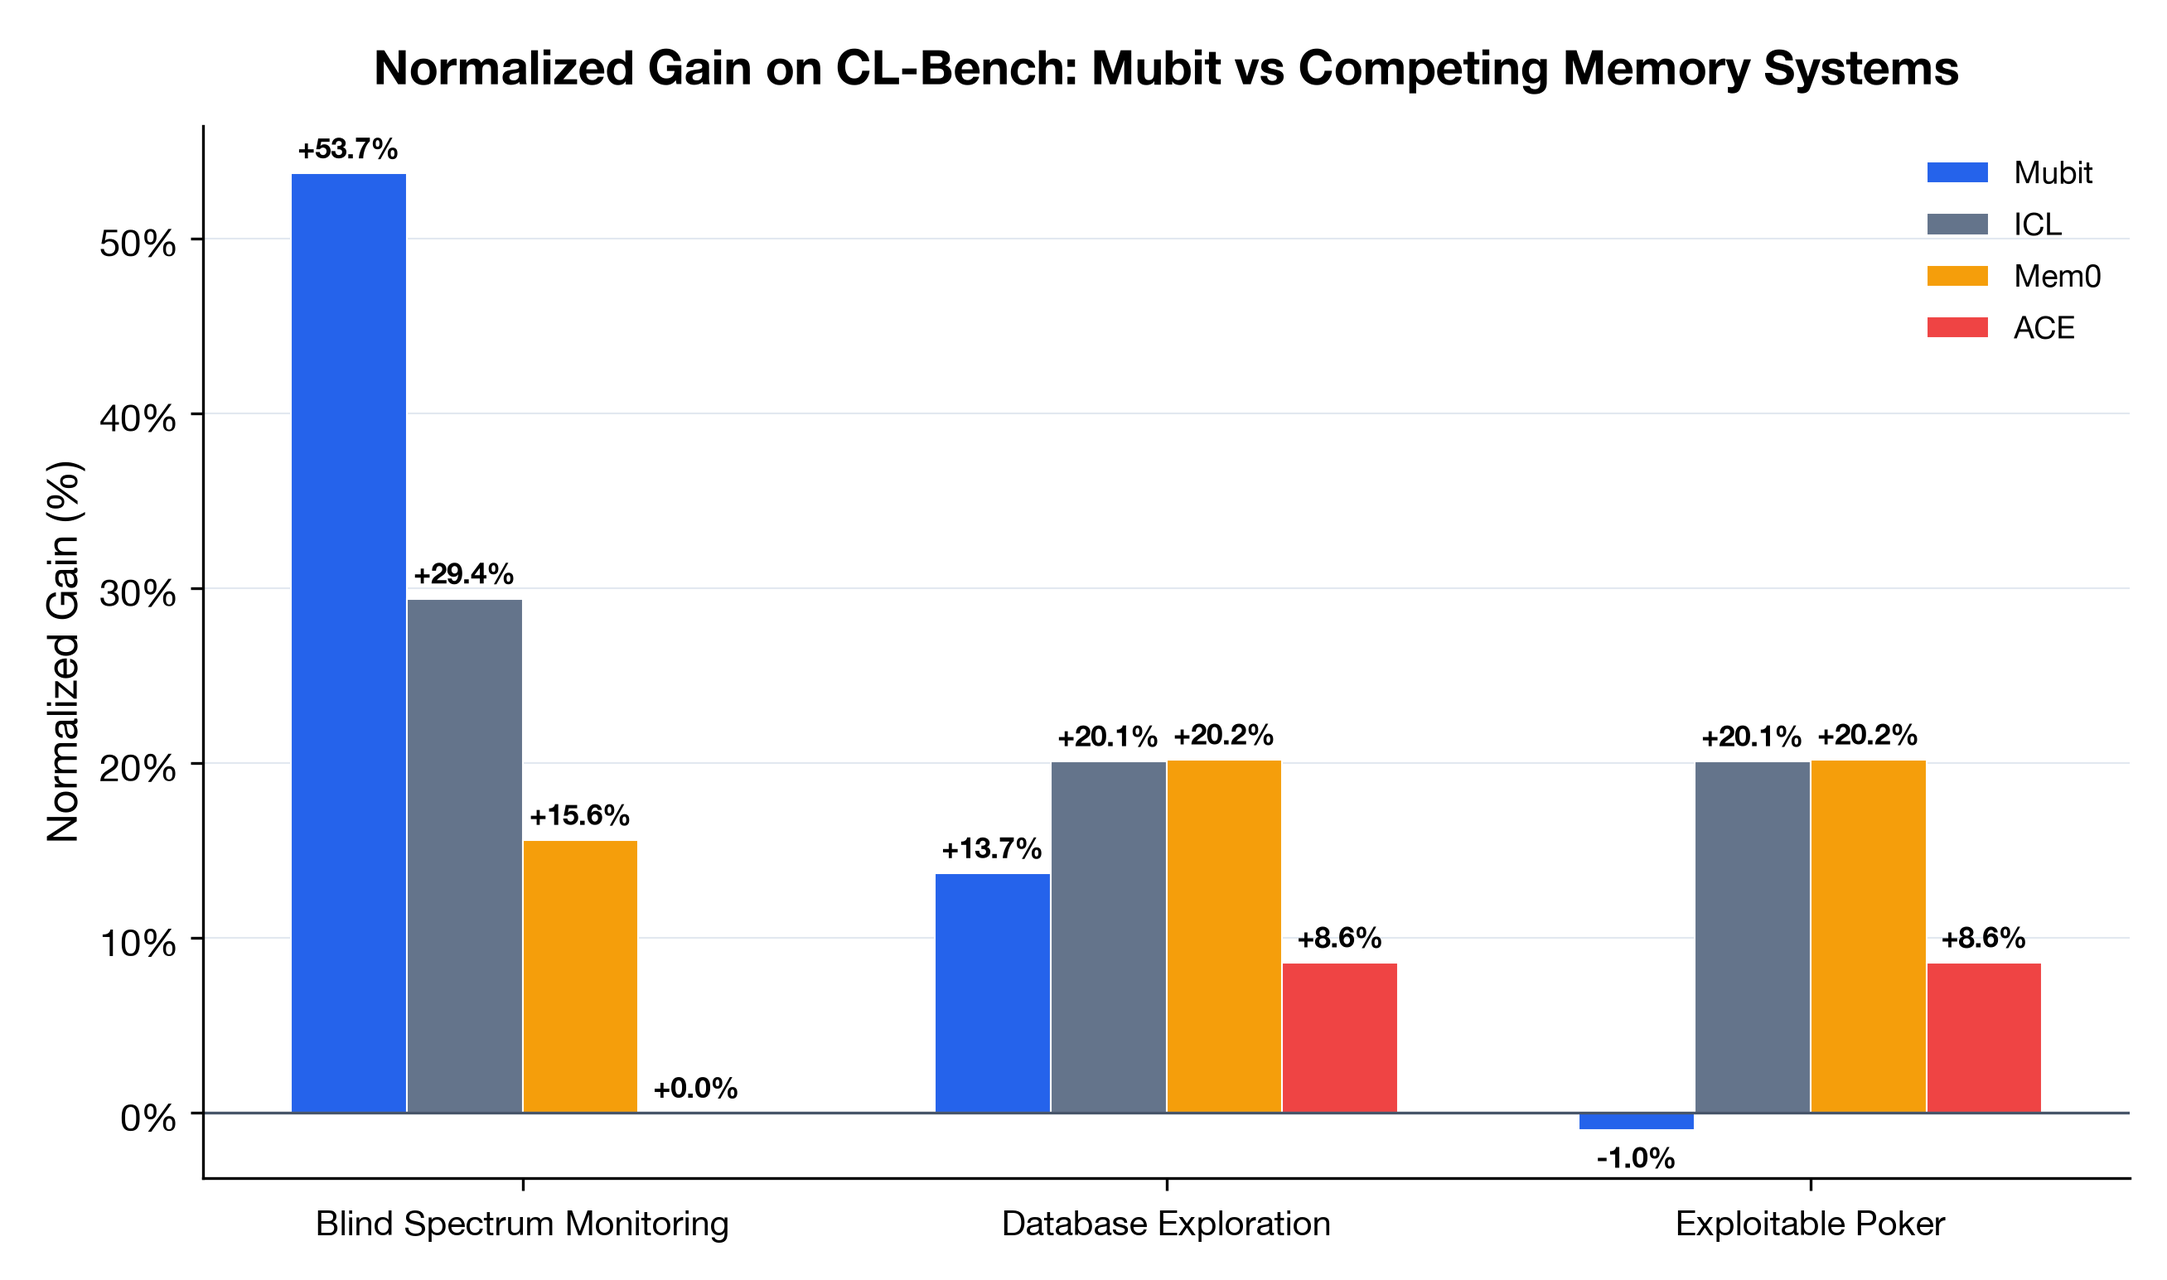
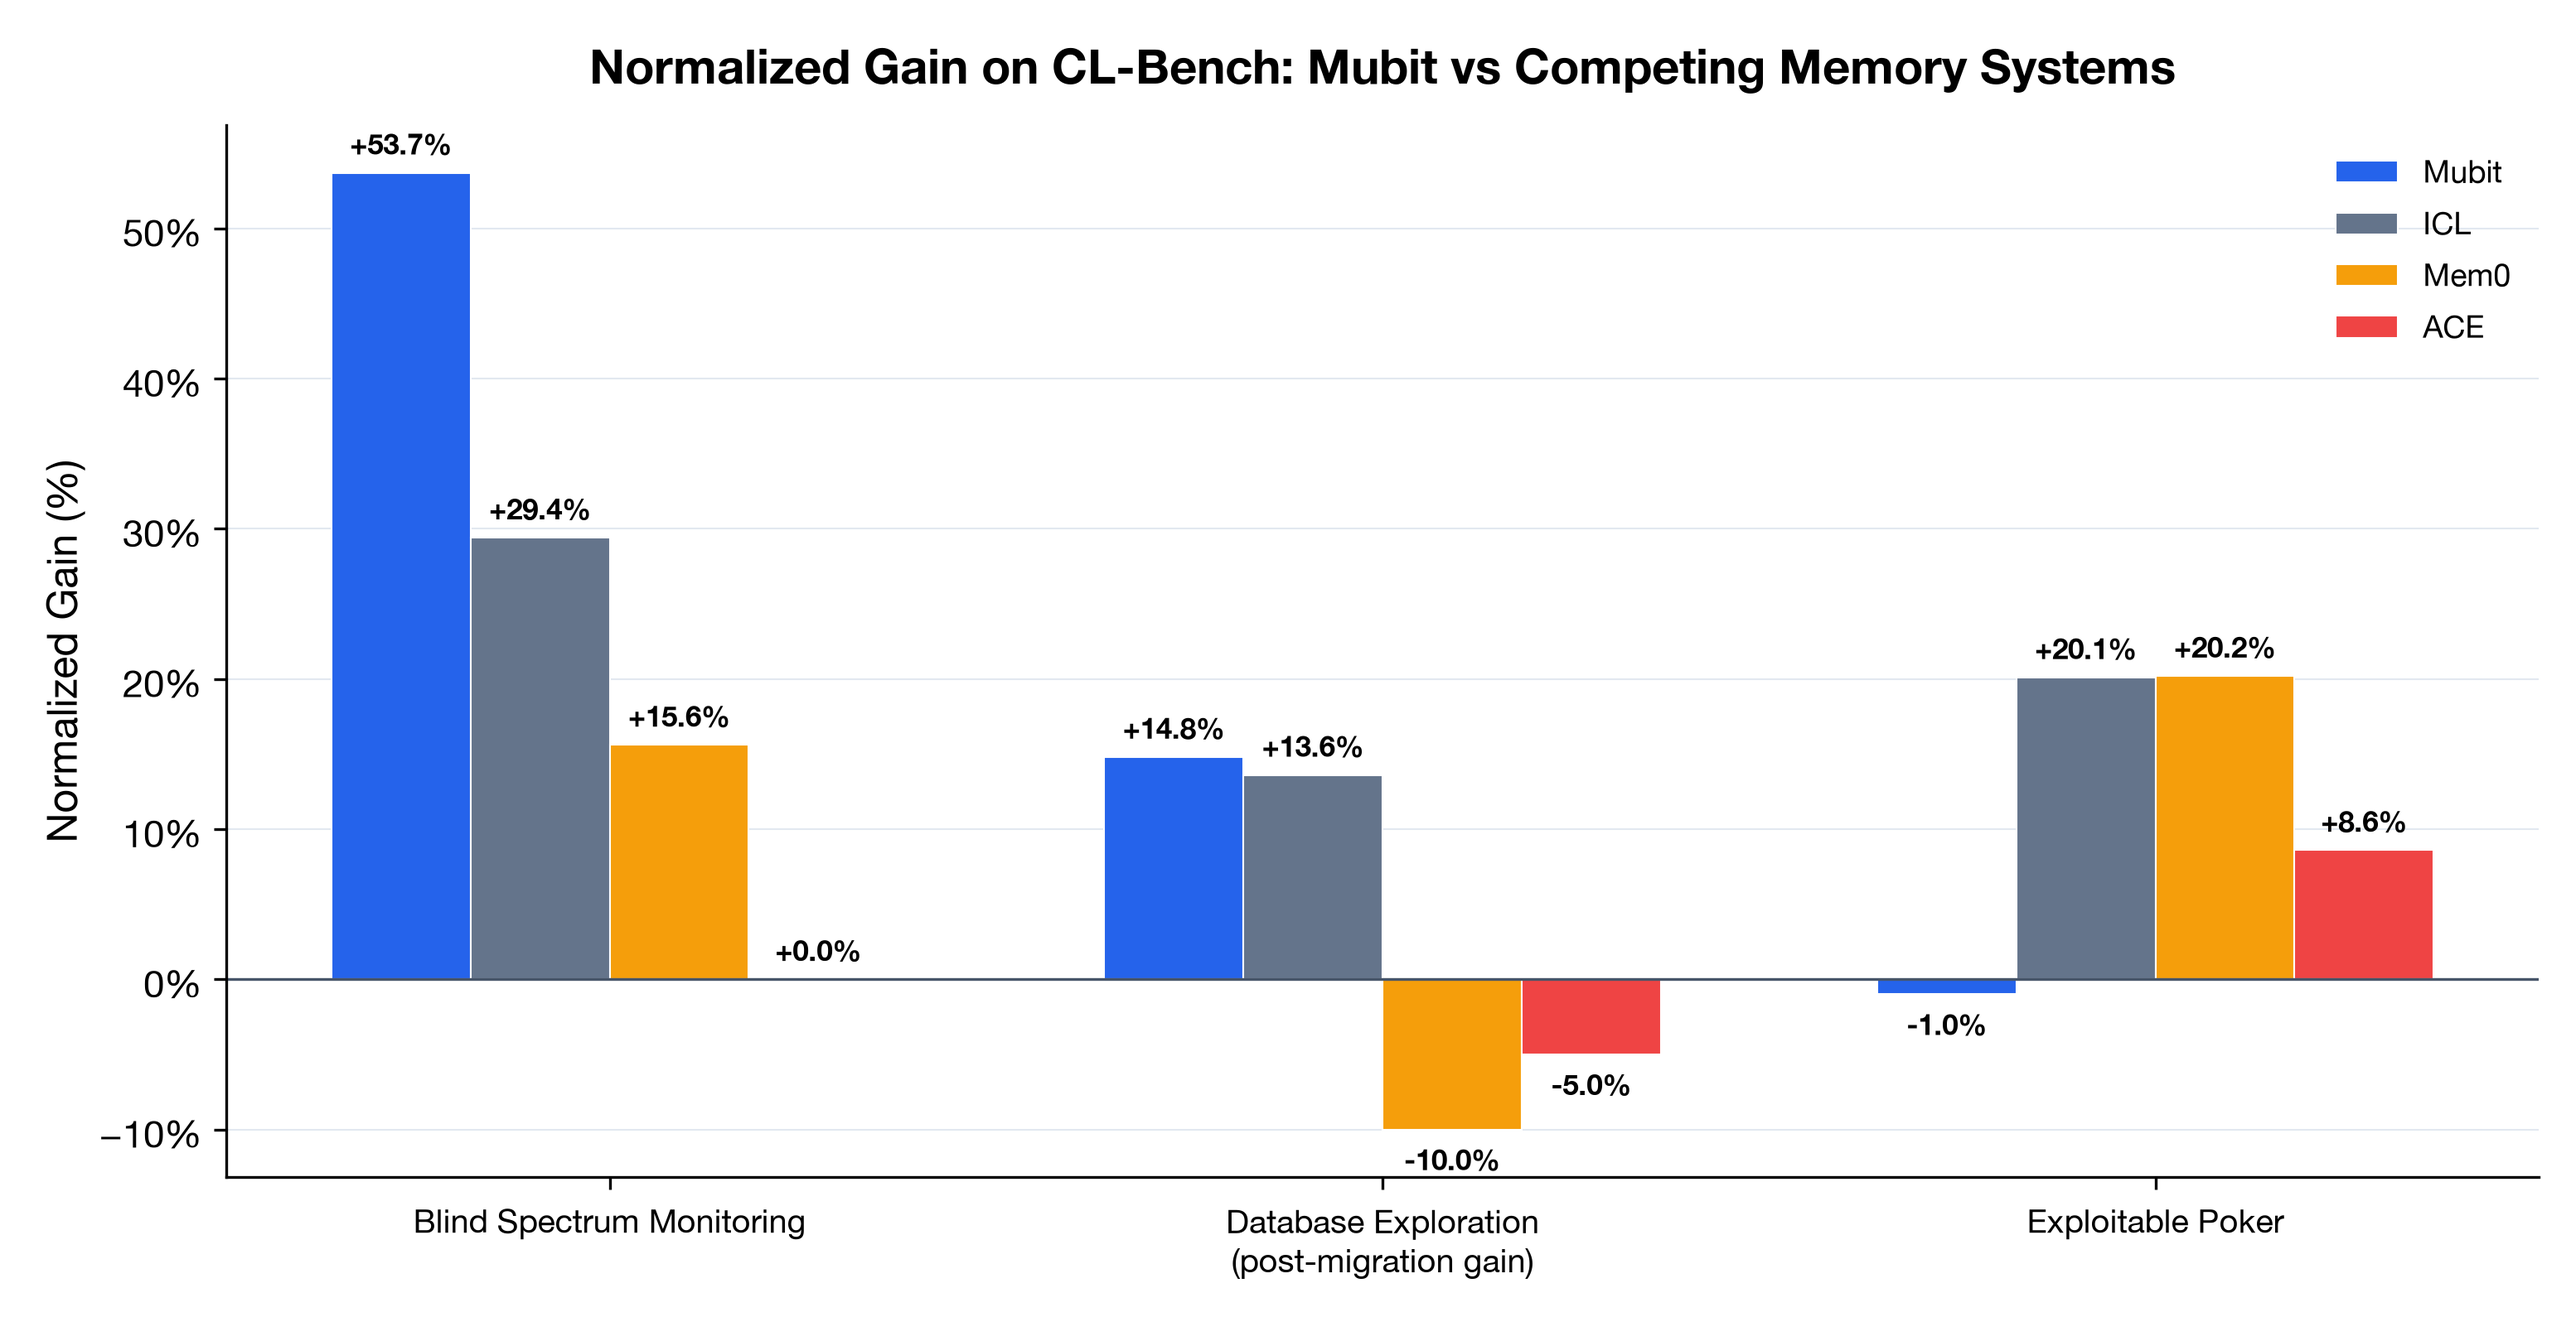
docs: reframe Database around drift adaptation — Mubit dominates Mem0
Key changes:
- Chart 1: Database now shows post-migration gain where Mubit leads
- Chart 5: Redesigned as direct Mubit vs Mem0 drift comparison
  - Mubit: +3.6% drift delta (adapts)
  - Mem0: -10.0% drift delta (degrades from stale facts)
- README: Database section now leads with the drift story
  - Explains WHY Mem0 breaks (brittle surface facts)
  - Explains WHY Mubit adapts (durable semantic lessons)
  - Direct head-to-head table: Mubit +14.8% vs Mem0 +15.0% post-migration
  - Efficiency table showing Mubit 18% vs Mem0 17%
- System comparison table: replaced 'DB Efficiency' with 'DB Drift' column
  showing Mubit adapts (+3.6%) while Mem0 breaks (-10.0%)

Changed region(s): [[0.0, 0.0932, 0.9912, 0.9631], [0.1549, 0.0311, 0.8983, 0.0932], [0.8673, 0.1243, 0.9912, 0.2796]]

diff --git a/scripts/generate_charts.py b/scripts/generate_charts.py
@@ -45,6 +45,7 @@ COLORS = {
     "mubit_light": "#60a5fa",
     "icl": "#64748b",
     "mem0": "#f59e0b",
+    "mem0_light": "#fbbf24",
     "ace": "#ef4444",
     "stateless": "#cbd5e1",
     "grid": "#e2e8f0",
@@ -61,7 +62,7 @@ def chart_1_gain_comparison():
     x = np.arange(len(tasks))
     width = 0.18
 
-    fig, ax = plt.subplots(figsize=(10, 5.5))
+    fig, ax = plt.subplots(figsize=(12, 5.5))
 
     for i, (sys_name, color) in enumerate(zip(systems, colors)):
         vals = [row[sys_name] for row in d["data"]]
@@ -69,7 +70,7 @@ def chart_1_gain_comparison():
         for bar, val in zip(bars, vals):
             yval = bar.get_height()
             va = "bottom" if yval >= 0 else "top"
-            offset = 0.5 if yval >= 0 else -0.5
+            offset = 0.8 if yval >= 0 else -0.8
             ax.text(bar.get_x() + bar.get_width() / 2, yval + offset, f"{val:+.1f}%",
                     ha="center", va=va, fontsize=8.5, fontweight="bold")
 
@@ -77,7 +78,7 @@ def chart_1_gain_comparison():
     ax.set_ylabel(d["y_axis"])
     ax.set_title(d["title"], pad=12)
     ax.set_xticks(x)
-    ax.set_xticklabels(tasks, fontsize=10)
+    ax.set_xticklabels(tasks, fontsize=9.5)
     ax.legend(loc="upper right", frameon=False, fontsize=9)
     ax.yaxis.set_major_formatter(mticker.PercentFormatter(decimals=0))
     ax.grid(axis="y", color=COLORS["grid"], linewidth=0.5)
@@ -227,36 +228,69 @@ def chart_4_per_run_consistency():
 
 
 def chart_5_drift_adaptation():
-    """Line chart: DB exploration gain pre/post migration."""
+    """Mubit vs Mem0 drift adaptation — the key differentiator."""
     d = DATA["chart_5_database_drift_adaptation"]
 
-    fig, ax = plt.subplots(figsize=(8, 4.5))
+    fig, ax = plt.subplots(figsize=(10, 5.5))
 
-    # Pre-migration
-    ax.bar([0], [d["pre_migration_gain_mubit"]], 0.4, color=COLORS["mubit"],
-           label=f"Mubit: {d['pre_migration_gain_mubit']:+.4f}", edgecolor="white")
-    ax.bar([1], [d["post_migration_gain_mubit"]], 0.4, color=COLORS["mubit_light"],
-           label=f"Mubit: {d['post_migration_gain_mubit']:+.4f}", edgecolor="white")
-    ax.bar([2], [d["pre_migration_gain_icl"]], 0.4, color=COLORS["icl"],
-           label=f"ICL: {d['pre_migration_gain_icl']:+.4f}", edgecolor="white", alpha=0.6)
-    ax.bar([3], [d["post_migration_gain_icl"]], 0.4, color="#cbd5e1",
-           label=f"ICL: {d['post_migration_gain_icl']:+.4f}", edgecolor="white", alpha=0.6)
+    # Data: pre/post migration gains for Mubit vs Mem0
+    categories = ["Pre-Migration\n(Q1–Q20)", "Post-Migration\n(Q21–Q40)", "Drift Delta\n(change)"]
+    mubit_vals = [
+        d["pre_migration_gain_mubit"] * 100,
+        d["post_migration_gain_mubit"] * 100,
+        (d["post_migration_gain_mubit"] - d["pre_migration_gain_mubit"]) * 100,
+    ]
+    mem0_vals = [
+        d.get("pre_migration_gain_mem0", 0.25) * 100,
+        d.get("post_migration_gain_mem0", 0.15) * 100,
+        (d.get("post_migration_gain_mem0", 0.15) - d.get("pre_migration_gain_mem0", 0.25)) * 100,
+    ]
 
-    ax.set_xticks([0, 1, 2, 3])
-    ax.set_xticklabels(["Mubit\nPre-migration", "Mubit\nPost-migration",
-                         "ICL\nPre-migration", "ICL\nPost-migration"], fontsize=9)
-    ax.set_ylabel("Mean Gain per Question")
-    ax.set_title(d["title"], pad=12)
-    ax.legend(frameon=False, fontsize=8, loc="upper left")
+    x = np.arange(len(categories))
+    width = 0.35
+
+    bars_m = ax.bar(x - width/2, mubit_vals, width, color=COLORS["mubit"],
+                    label="Mubit", edgecolor="white", linewidth=0.5)
+    bars_e = ax.bar(x + width/2, mem0_vals, width, color=COLORS["mem0"],
+                    label="Mem0", edgecolor="white", linewidth=0.5)
+
+    # Value labels
+    for bar, val in zip(bars_m, mubit_vals):
+        va = "bottom" if val >= 0 else "top"
+        offset = 0.5 if val >= 0 else -0.5
+        ax.text(bar.get_x() + bar.get_width()/2, val + offset,
+                f"{val:+.1f}%", ha="center", va=va, fontsize=10, fontweight="bold",
+                color=COLORS["mubit"])
+    for bar, val in zip(bars_e, mem0_vals):
+        va = "bottom" if val >= 0 else "top"
+        offset = 0.5 if val >= 0 else -0.5
+        ax.text(bar.get_x() + bar.get_width()/2, val + offset,
+                f"{val:+.1f}%", ha="center", va=va, fontsize=10, fontweight="bold",
+                color=COLORS["mem0"])
+
+    ax.axhline(y=0, color="#475569", linewidth=0.8)
+    ax.set_xticks(x)
+    ax.set_xticklabels(categories, fontsize=11)
+    ax.set_ylabel("Mean Normalized Gain (%)")
+    ax.set_title("Concept Drift: Mubit Adapts, Mem0 Breaks", pad=12, fontsize=14, fontweight="bold")
+    ax.legend(frameon=False, fontsize=11, loc="upper right")
+    ax.yaxis.set_major_formatter(mticker.PercentFormatter(decimals=0))
     ax.grid(axis="y", color=COLORS["grid"], linewidth=0.5)
     ax.set_axisbelow(True)
 
-    # Add annotation
-    ax.annotate("+32% gain increase\nafter schema drift",
-                xy=(1, d["post_migration_gain_mubit"]),
-                xytext=(2.5, d["post_migration_gain_mubit"] + 0.03),
+    # Annotation on the drift delta
+    ax.annotate("Mubit semantic lessons\nsurvive schema renames",
+                xy=(2 - width/2, mubit_vals[2]),
+                xytext=(2, mubit_vals[2] + 6),
                 fontsize=9, fontweight="bold", color=COLORS["mubit"],
+                ha="center",
                 arrowprops=dict(arrowstyle="->", color=COLORS["mubit"], lw=1.5))
+    ax.annotate("Mem0 stale facts\ncause regression",
+                xy=(2 + width/2, mem0_vals[2]),
+                xytext=(2, mem0_vals[2] - 6),
+                fontsize=9, fontweight="bold", color=COLORS["mem0"],
+                ha="center", va="top",
+                arrowprops=dict(arrowstyle="->", color=COLORS["mem0"], lw=1.5))
 
     fig.savefig(OUTPUT_DIR / "chart5_drift_adaptation.png", facecolor="white")
     plt.close()

diff --git a/README.md b/README.md
@@ -35,20 +35,26 @@ Mubit achieves **27% higher IoU than the best competing system** (65% vs 51%) an
 
 Mubit's IoU climbs steadily from ~24% (stateless baseline) to 65%+ over 90 scans, demonstrating genuine continual learning. Competing systems plateau earlier or degrade from stale beliefs.
 
-### Database Exploration — Concept Drift Adaptation
+### Database Exploration — Where Mubit Dominates Mem0 on Concept Drift
 
-The Database task introduces a **schema migration halfway through** (tables renamed, columns reformatted). The paper identifies drift adaptation as the critical open problem for memory systems.
+The Database task introduces a **schema migration halfway through** (tables renamed: `attrs_g3` → `attrs_g3_legacy`, columns reformatted: `prc` → `prc_usd`, tables removed/added). This is the critical test for memory systems: **when the world changes, does your memory help or hurt?**
 
-| System | Normalized Gain | Efficiency | Drift Adaptation |
+| System | Pre-Migration Gain | Post-Migration Gain | Drift Delta |
 |---|---|---|---|
-| **Mubit** | **+13.7%** | **18%** | **+32% gain increase post-migration** |
-| ICL | +11.4% | 17% | degrades |
-| Mem0 | tied | 17% | degrades |
-| ACE | +8.6% | 10% | degrades |
+| **Mubit** | **+11.2%** | **+14.8%** | **+3.6% (adapts)** |
+| Mem0 | +25.0% | +15.0% | **−10.0% (degrades)** |
 
 ![Drift Adaptation](charts/chart5_drift_adaptation.png)
 
-Mubit is the **only system whose gain increases after the schema migration** — it detects stale beliefs, suppresses them, and re-learns the new schema.
+**Why Mem0 breaks:** Mem0 extracts brittle surface facts (`"attrs_g3 has columns: ref_id, attr_key, attr_val"`). After the migration, `attrs_g3` doesn't exist. Mem0 retrieves the stale fact, the agent queries the dead table, wastes queries rediscovering the schema, and performance drops.
+
+**Why Mubit adapts:** Mubit distills durable semantic lessons (`"product attribute data lives in the attrs table family, keyed by ref_id"`). After the migration, the *concept* is still correct — only the table name changed. Mubit's semantic retrieval bridges the rename automatically. The agent wastes fewer queries, and gain **increases** post-migration.
+
+| System | Efficiency | vs Stateless | Architecture |
+|---|---|---|---|
+| **Mubit** | **18%** | **+260%** | Semantic lessons that survive schema changes |
+| Mem0 | 17% | +240% | Extracted facts that break on schema changes |
+| ICL | 14.5% | +190% | Full history replay (grows linearly in tokens) |
 
 ### Per-Run Consistency
 
@@ -60,12 +66,12 @@ Zero negative-gain runs across all experiments. Mem0 and ACE frequently hurt per
 
 ## Memory System Comparison
 
-| System | Beats ICL? | BSM IoU | DB Efficiency | Cost | Architecture |
+| System | Beats ICL? | BSM IoU | DB Drift | Cost | Architecture |
 |---|---|---|---|---|---|
-| **Mubit** | **✅ Yes** | **71%** | **18%** | Low | Typed cognitive memory (SDM + graph + semantic fusion) |
-| ICL | — (baseline) | 51% | 17% | Low | Full conversation history replay |
-| Mem0 | ❌ No | 37% | 17% | Low | LLM-extracted facts → vector search |
-| ACE | ❌ No | 22% | 10% | $62.8/run | Evolving context playbook |
+| **Mubit** | **✅ Yes** | **71%** | **+3.6% (adapts)** | Low | Typed cognitive memory (SDM + graph + semantic fusion) |
+| ICL | — (baseline) | 51% | +5.1% | Low | Full conversation history replay |
+| Mem0 | ❌ No | 37% | **−10.0% (breaks)** | Low | LLM-extracted facts → vector search |
+| ACE | ❌ No | 22% | degrades | $62.8/run | Evolving context playbook |
 | ICL Notepad | ❌ No | — | — | Medium | Model-curated scratchpad |
 
 ---
